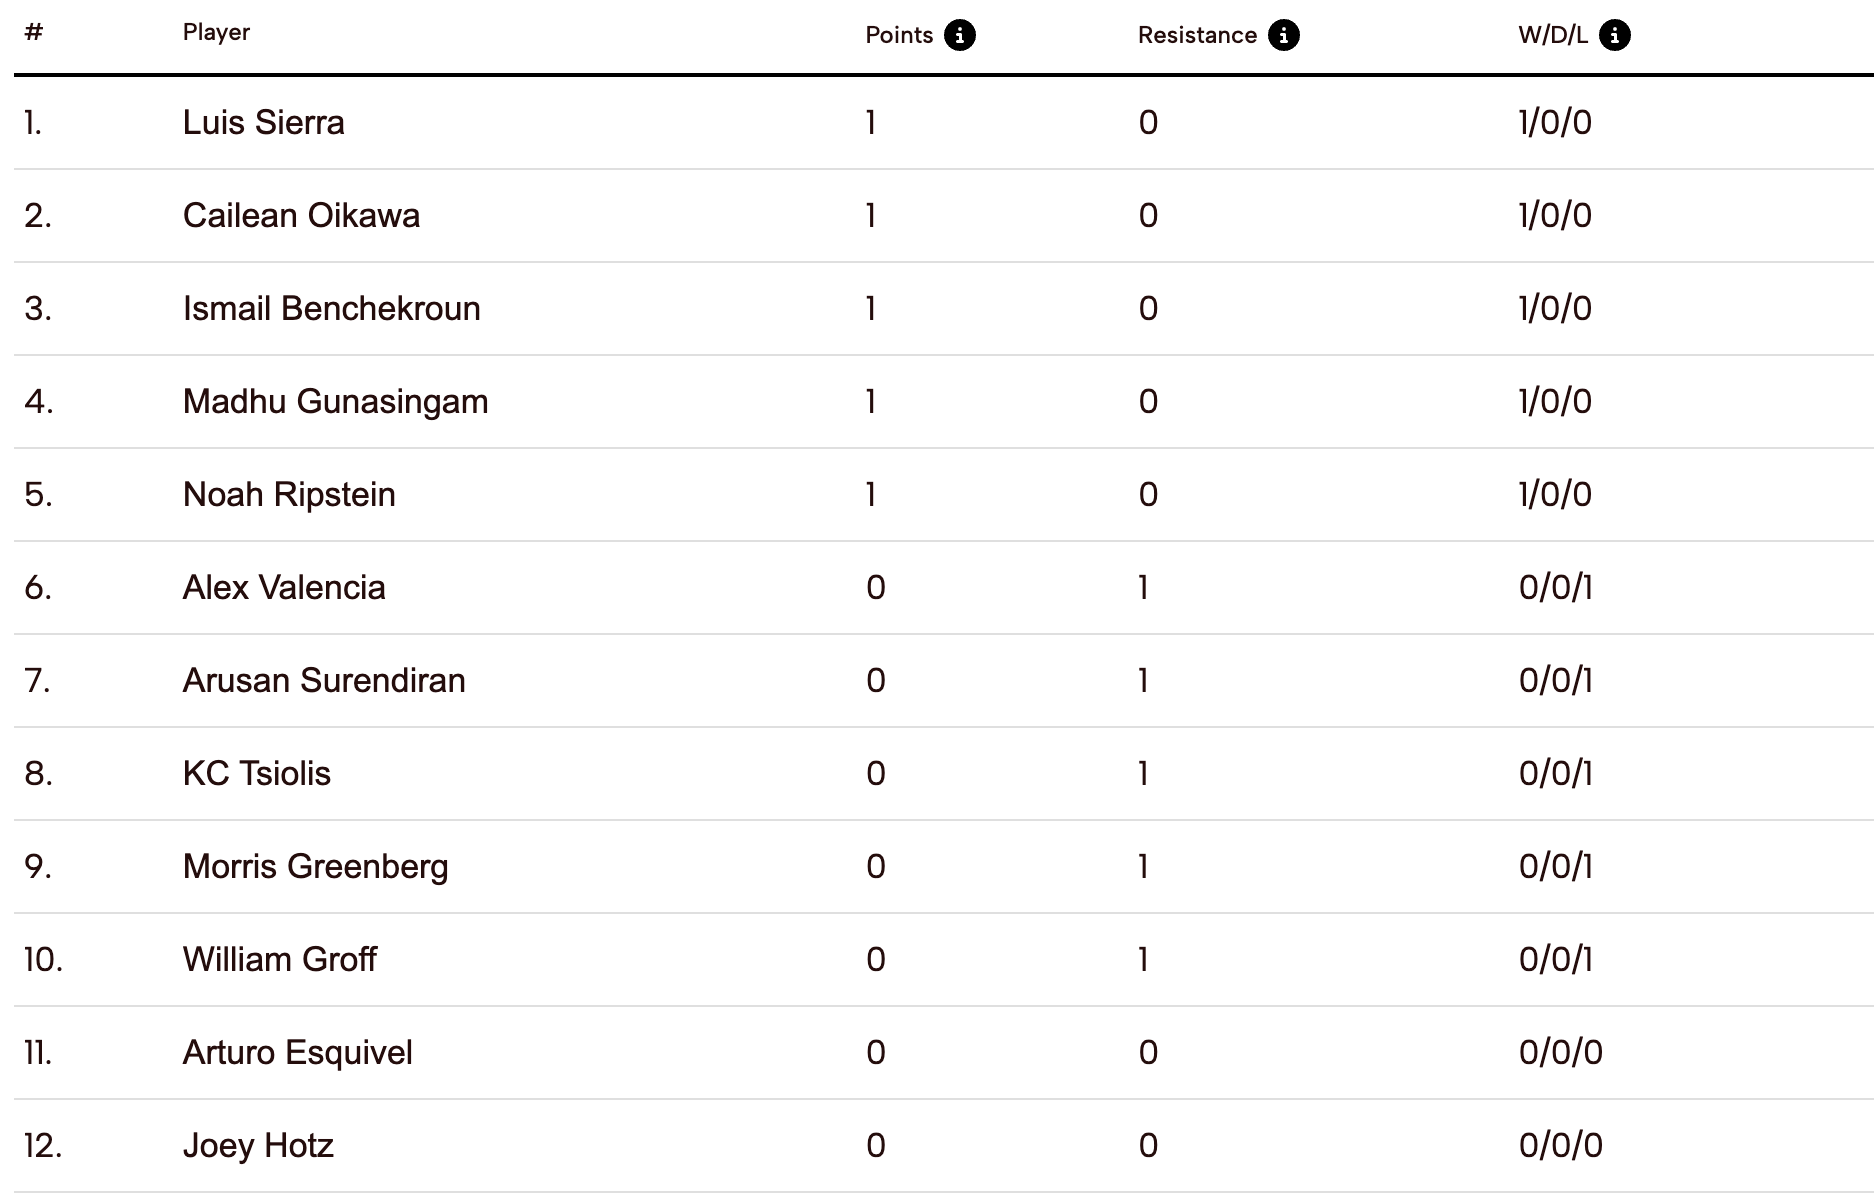
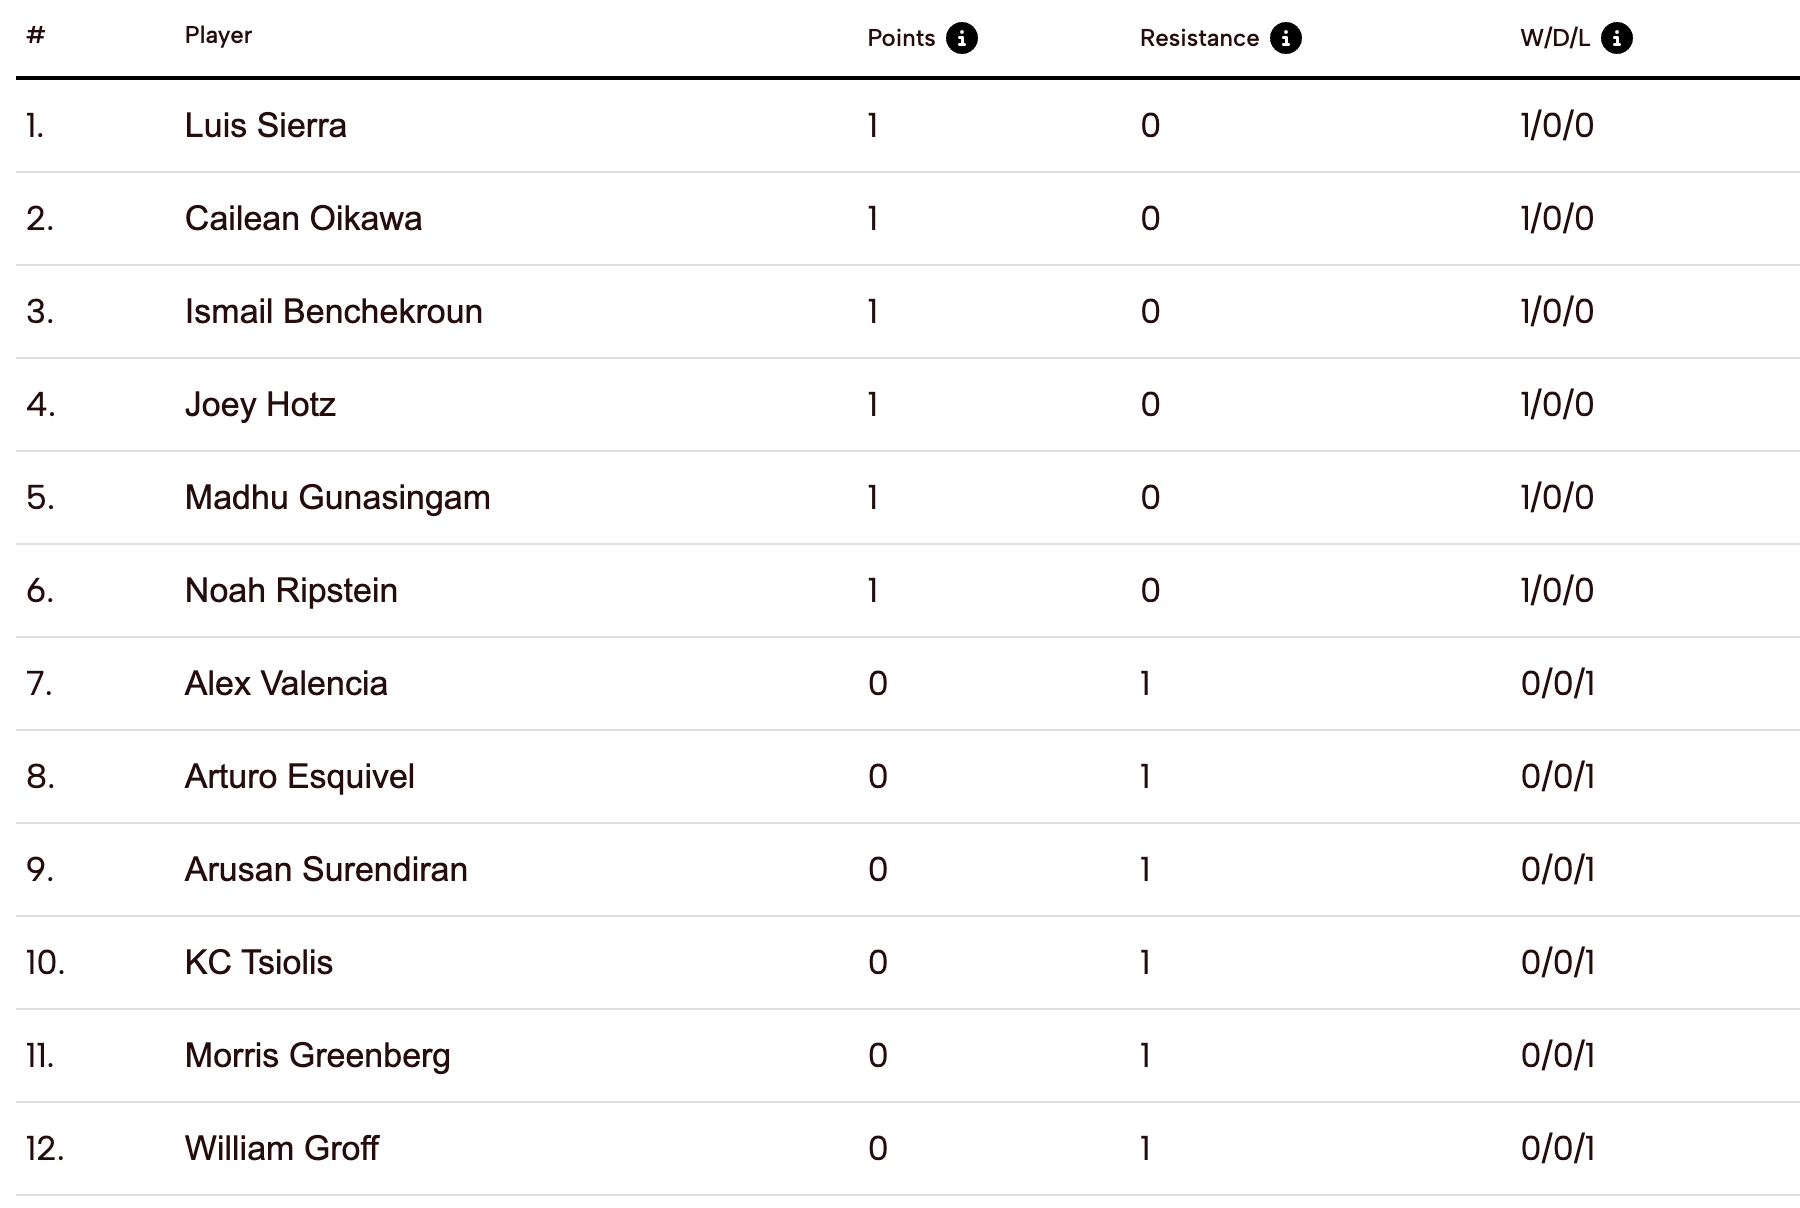
Update Chess tournament to round 2

diff --git a/docs/chess.html b/docs/chess.html
@@ -2473,7 +2473,7 @@ code span.wa { color: #5e5e5e; font-style: italic; } /* Warning */
   }
 </style>
 <p><img src="chess/table1.png" /></p>
-<p><img src="chess/round1.png" /></p>
+<p><img src="chess/round2.png" /></p>
 <div class="sourceCode" id="cb1"><pre class="sourceCode r distill-force-highlighting-css"><code class="sourceCode r"></code></pre></div>
 <!--radix_placeholder_article_footer-->
 <!--/radix_placeholder_article_footer-->
